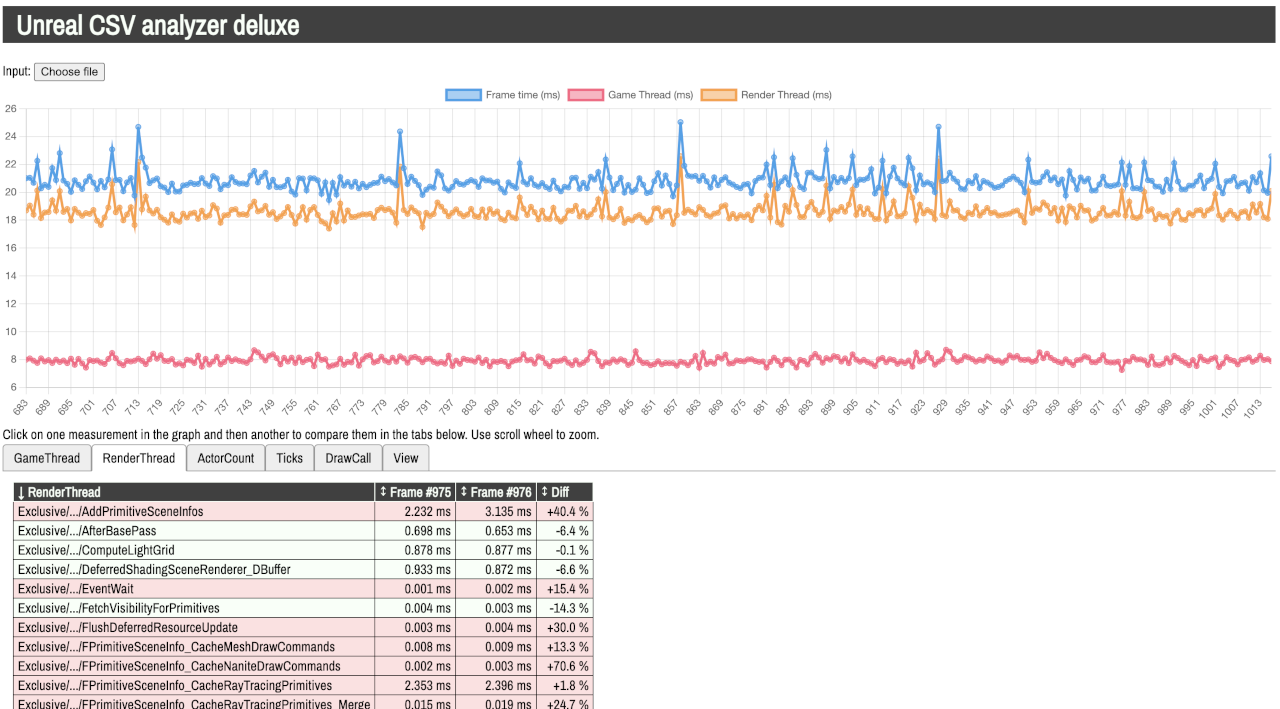
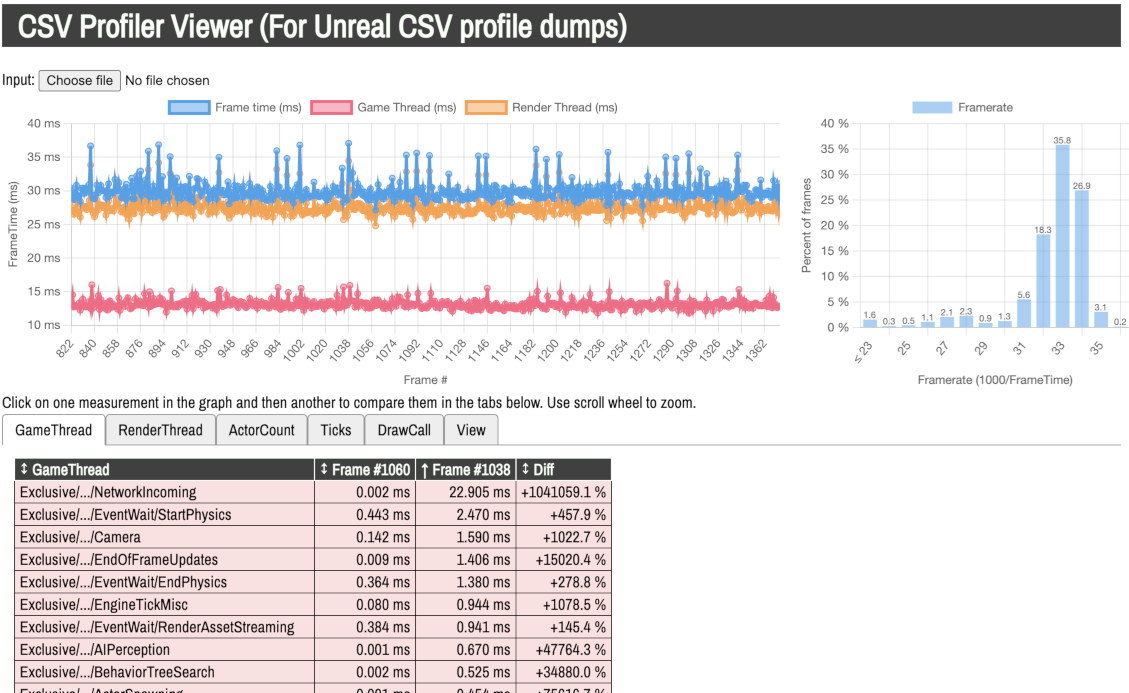
Contain a chart to show the framerate distribution as well

Changed region(s): [[0.0, 0.0, 1.0, 1.0], [0.806, 0.1212, 0.899, 0.1818], [0.992, 0.0, 1.0, 0.0606]]

diff --git a/src/FramerateElement.ts b/src/FramerateElement.ts
@@ -1,0 +1,176 @@
+/*
+ * The MIT License (MIT)
+ *
+ * Copyright (c) 2023 Lars Sjodin, Hati Hati Games AB
+ *
+ * Permission is hereby granted, free of charge, to any person obtaining a copy
+ * of this software and associated documentation files (the "Software"), to deal
+ * in the Software without restriction, including without limitation the rights
+ * to use, copy, modify, merge, publish, distribute, sublicense, and/or sell
+ * copies of the Software, and to permit persons to whom the Software is
+ * furnished to do so, subject to the following conditions:
+ *
+ * The above copyright notice and this permission notice shall be included in all
+ * copies or substantial portions of the Software.
+ *
+ * THE SOFTWARE IS PROVIDED "AS IS", WITHOUT WARRANTY OF ANY KIND, EXPRESS OR
+ * IMPLIED, INCLUDING BUT NOT LIMITED TO THE WARRANTIES OF MERCHANTABILITY,
+ * FITNESS FOR A PARTICULAR PURPOSE AND NONINFRINGEMENT. IN NO EVENT SHALL THE
+ * AUTHORS OR COPYRIGHT HOLDERS BE LIABLE FOR ANY CLAIM, DAMAGES OR OTHER
+ * LIABILITY, WHETHER IN AN ACTION OF CONTRACT, TORT OR OTHERWISE, ARISING FROM,
+ * OUT OF OR IN CONNECTION WITH THE SOFTWARE OR THE USE OR OTHER DEALINGS IN THE
+ * SOFTWARE.
+*/
+
+import {ParseMeta, ParseResult} from "papaparse";
+import {HTML} from "./HTML";
+import {Chart} from "chart.js/auto";
+import 'chartjs-plugin-datalabels'
+import zoomPlugin from "chartjs-plugin-zoom";
+import ChartDataLabels from "chartjs-plugin-datalabels";
+Chart.register(ChartDataLabels);
+
+export class FramerateElement extends HTMLElement
+{
+    private table: ParseResult<{ [p: string]: string }> = {
+        errors: [],
+        data:[],
+        meta: new class implements ParseMeta {
+            aborted = true;
+            cursor=0;
+            delimiter = ',';
+            linebreak = '\n';
+            truncated= false;
+        }};
+    constructor() {
+        super();
+    }
+
+    connectedCallback() {
+
+    }
+
+    disconnectedCallback() {
+
+    }
+    setTable(table: ParseResult<{ [key: string]: string }>){
+        this.table = table;
+        if (this.isConnected) {
+            this.render();
+        }
+    }
+
+    adoptedCallback() {
+    }
+
+    static get observedAttributes() : string[] {
+        return [];
+    }
+
+    attributeChangedCallback(name : string, oldValue : string, newValue : string)  {
+
+    }
+
+    private render(): void {
+        this.innerText = "";
+        let canvas = HTML.tag('canvas', {}, "");
+        this.appendChild(HTML.tag('div', {}, "", canvas));
+        let table = this.table;
+        let frameRates: number[] = []
+        let totalFrameCount = 0;
+        for (let frameNumber = 0; frameNumber<Math.min(2000,table.data.length); ++frameNumber) {
+            let frameTime = Number.parseFloat(table.data[frameNumber]["FrameTime"]);
+            frameRates.push(1000/frameTime);
+            totalFrameCount++;
+        }
+        let sortedFrameRates = frameRates.sort();
+        let percentile98 = sortedFrameRates[Math.floor(sortedFrameRates.length*0.98)];
+        let median = sortedFrameRates[Math.floor(sortedFrameRates.length*0.5)];
+        let percentile2 = sortedFrameRates[Math.floor(sortedFrameRates.length*0.02)];
+        let binSize = 1;
+
+        let bins: number[] = [];
+        let binLabels: string[] = [];
+
+        let firstBinValue = Math.floor(percentile2/binSize)*binSize-2;
+        let lastBinValue: number = Math.floor(percentile98/binSize)*binSize+2;
+        for (let frameRate = firstBinValue; frameRate< lastBinValue; frameRate+=binSize) {
+            bins.push(0.0)
+            binLabels.push(frameRate.toString());
+        }
+        binLabels[0] = "≤ "+binLabels[0]
+        binLabels[binLabels.length-1] = "≥ "+binLabels[binLabels.length-1]
+        for (let frameNumber = 0; frameNumber<Math.min(2000,table.data.length); ++frameNumber) {
+            let frameTime = Number.parseFloat(table.data[frameNumber]["FrameTime"]);
+            let frameRate = 1000/frameTime;
+            let binIndex: number = Math.floor((frameRate-firstBinValue)/binSize)*binSize;
+            binIndex = Math.max(0,binIndex);
+            binIndex = Math.min(bins.length-1, binIndex);
+            bins[binIndex] += 100/totalFrameCount;
+        }
+
+        console.log(bins);
+        new Chart(
+            canvas,
+            {
+                options: {
+                    animation: false,
+                    maintainAspectRatio: false,
+                    responsive: true,
+                    plugins: {
+                        datalabels : {
+                            anchor : "end",
+                            align: "end",
+                            padding: 0,
+                            offset: -1,
+                            font: {
+                              size: 9
+                            },
+                            formatter: value => {
+                                return value.toFixed(1);
+                            }
+                        }
+                    },
+                    scales: {
+                        x: {
+                            title: {
+                                display: true,
+                                text: 'Framerate (1000/FrameTime)'
+                            }
+                        },
+                        y: {
+                            title: {
+                                display: true,
+                                text: 'Percent of frames'
+                            },
+                            ticks: {
+                                callback: function(value, index, ticks) {
+                                    return value + " %";
+                                }
+                            }
+                        }
+                    },
+
+                },
+                type: 'bar',
+                data: {
+                    labels: binLabels,
+                    datasets: [
+                        {
+                            label: 'Framerate',
+                            data: bins
+                        },
+                    ]
+                }
+            }
+        );
+
+    }
+}
+
+window.customElements.define('frame-rate', FramerateElement);
+declare global {
+    interface HTMLElementTagNameMap {
+        'frame-rate': FramerateElement;
+    }
+}

diff --git a/src/index.ts b/src/index.ts
@@ -27,7 +27,10 @@ import {Chart} from "chart.js/auto";
 import zoomPlugin from 'chartjs-plugin-zoom';
 import "./PerformanceComparisonElement";
 import {PerformanceComparisonElement} from "./PerformanceComparisonElement";
+import "./FramerateElement";
+import {FramerateElement} from "./FramerateElement";
 import {HTML} from "./HTML";
+import axios, {AxiosResponse} from "axios";
 
 let tabs = [{
     thread:"GameThread",
@@ -56,18 +59,20 @@ let tabs = [{
 }];
 let comparisons: PerformanceComparisonElement[] = []
 let lastCsv = "";
-let div = document.createElement("div");
+let mainChartElement = HTML.tag("div", {class:"frame-times-chart"}, "");
 let urlInput = HTML.tag('input', {type:"file", class:"file-input", "id":"file-input"},"");
 let urlLabel = HTML.tag('label', {for:"file-input"}, "Input: ");
 document.body.appendChild(urlLabel);
 document.body.appendChild(urlInput);
 
 let canvas = document.createElement("canvas");
-div.appendChild(canvas);
-div.style.width = "100%";
-div.style.height = "400px";
+mainChartElement.appendChild(canvas);
 Chart.register(zoomPlugin);
-document.body.appendChild(div);
+let framerateElement : FramerateElement = HTML.tag("frame-rate", {class:"frame-rate-chart"}, "");
+let topRowElement: HTMLDivElement = HTML.tag("div", {class:"top-row"},"");
+topRowElement.appendChild(mainChartElement);
+topRowElement.appendChild(framerateElement);
+document.body.appendChild(topRowElement);
 document.body.appendChild(HTML.tag("div", {}, "Click on one measurement in the graph and then another to compare them in the tabs below. Use scroll wheel to zoom."));
 tabs.forEach( (config, index) => {
     document.body.appendChild(HTML.tag("input", {class: "tabview", type:"radio", "checked": index==0?"true":null, name:"tabs", id:"tab"+(index+1)}, ""));
@@ -86,6 +91,23 @@ tabs.forEach( (config, index) => {
 async function run()
 {
     let csvString : string = lastCsv;
+
+    /**
+     * Used for rapid testing to not have to get a file every time.
+     */
+    /*
+    if (!csvString || csvString.length==0) {
+        try {
+            let response: AxiosResponse<string> = await axios.get("testdata.csv");
+            if (response.status >= 200 && response.status < 300) {
+                csvString = response.data;
+            }
+        } catch (e) {
+        }
+    }
+    */
+
+
     if (csvString.length>0) {
         let table: ParseResult<{ [key: string]: string }> = parse(csvString, {header:true});
         let frameTimeSeries : number[] = [];
@@ -99,7 +121,7 @@ async function run()
             frameNumberLabels.push(frameNumber);
         }
         comparisons.forEach(comparison => {comparison.setTable(table)})
-
+        framerateElement.setTable(table);
         new Chart(
             canvas,
             {
@@ -108,6 +130,9 @@ async function run()
                     maintainAspectRatio: false,
                     responsive: true,
                     plugins: {
+                        datalabels : {
+                            display: false,
+                        },
                         zoom: {
                             zoom: {
                                 wheel: {
@@ -117,6 +142,25 @@ async function run()
                                     enabled: true
                                 },
                                 mode: 'x',
+                            }
+                        }
+                    },
+                    scales: {
+                        x: {
+                            title: {
+                                display: true,
+                                text: 'Frame #'
+                            }
+                        },
+                        y: {
+                            title: {
+                                display: true,
+                                text: 'FrameTime (ms)'
+                            },
+                            ticks: {
+                                callback: function(value, index, ticks) {
+                                    return value + " ms";
+                                }
                             }
                         }
                     },

diff --git a/src/PerformanceComparisonElement.ts b/src/PerformanceComparisonElement.ts
@@ -34,8 +34,8 @@ export class PerformanceComparisonElement extends HTMLElement
 {
     labelRow: TSMap<string, number> = new TSMap();
     comparisonTable: {label:string, left : number, right: number, percentageDiff: number}[] = [];
-    sortColumn : 0|1|2|3 = 0;
-    sortOrder : 1|-1 = 1;
+    sortColumn : 0|1|2|3 = 2;
+    sortOrder : 1|-1 = -1;
     frameNumbers: number[] = [0,0];
     threadName = "";
     private table: ParseResult<{ [p: string]: string }> = {

diff --git a/html/main.css b/html/main.css
@@ -37,6 +37,18 @@ th.descending::before {
     content: '↑ ';
 }
 
+.top-row {
+    display: grid;
+    grid-template-columns: 70% 30%;
+    grid-gap: 10px;
+}
+
+
+.frame-rate-chart canvas, .frame-times-chart canvas{
+    height: 300px;
+}
+
+
 input.url-input {
     width: 70%;
 }

diff --git a/html/index.html b/html/index.html
@@ -7,7 +7,7 @@
 <body>
 <div id="page" class="page">
     <h1>
-        Unreal CSV analyzer deluxe
+        CSV Profiler Viewer (For Unreal CSV profile dumps)
     </h1>
 </div>
 <script src="bundle.js">

diff --git a/README.md b/README.md
@@ -1,14 +1,14 @@
 CSV Profiler Viewer
 ===
 
-This is a Single Page Application written in typescript to analyze output from Epic Unreal engine CSV files.
+This is a Single Page Application (SPA) written in typescript to analyze output from Epic Unreal engine [CSV performance profiler](https://docs.unrealengine.com/4.27/en-US/TestingAndOptimization/PerformanceAndProfiling/CSVProfiler/) files.
 
 ![Screenshot from the app](screenshot.png)
 
 Using
 --
 
-[Use the prebuilt version](https://vegolasse.github.io/CSVProfilerViewer/) and load the page and upload a file to it. It will display the first 1000 frames in the file (due to chart.js becoming sluggish otherwise).
+[Use the prebuilt version](https://vegolasse.github.io/CSVProfilerViewer/) and load the page and upload a file to it. It will display the first 2000 frames in the file (due to chart.js becoming sluggish otherwise).
 
 Click on A measurement circle to add it as the rightmost frame in the analysis tables below. Clicking another frame moves the right column to the left one and adds the data to the right column.
 
@@ -17,7 +17,9 @@ Recommended best practice...
  - First click a good frame with low frametime
  - Then click a bad frame with high frametime.
  - Click the various tabs to compare different data. Click column headers to sort.
- - Sort descending on the rightmost frame column. This way you will see expensive things at the top, and compare them with their counterpart in the leftmost column.
+ - The default is to sort descending on the rightmost frame column. This way you will see expensive things at the top, and compare them with their counterpart in the leftmost column.
+
+The framerate chart will show the distribtion of the _framerate_, not frame time. This is a convenient way to see if the majority of the frames "behave".
 
 This can serve as a good pointer to where to start to look for things that are expensive!
 
